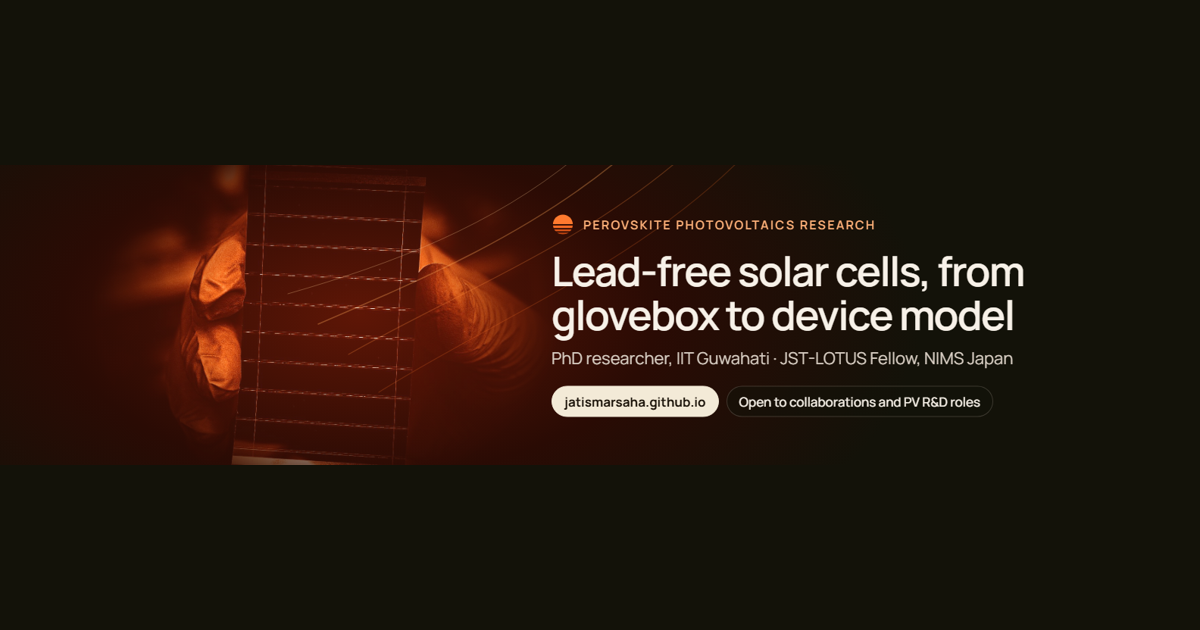
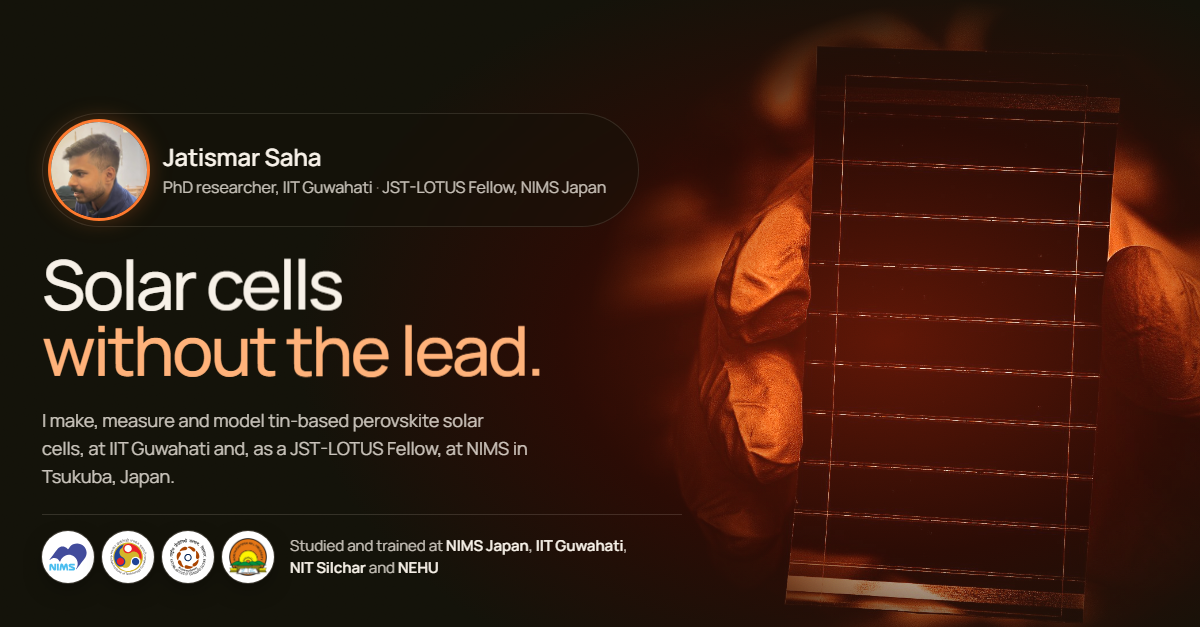
Replace link preview image with the current hero design

diff --git a/index.html b/index.html
@@ -12,12 +12,12 @@
 <meta property="og:title" content="Jatismar Saha | Lead-free perovskite solar cells">
 <meta property="og:description" content="PhD researcher, IIT Guwahati. JST-LOTUS Fellow at NIMS, Japan. Five publications, four as first author.">
 <meta property="og:url" content="https://jatismarsaha.github.io/">
-<meta property="og:image" content="https://jatismarsaha.github.io/banner.png">
+<meta property="og:image" content="https://jatismarsaha.github.io/banner.png?v=2">
 <meta property="og:image:alt" content="Jatismar Saha, lead-free perovskite solar cell research banner">
 <meta name="twitter:card" content="summary_large_image">
 <meta name="twitter:title" content="Jatismar Saha | Lead-free perovskite solar cells">
 <meta name="twitter:description" content="PhD researcher, IIT Guwahati. JST-LOTUS Fellow at NIMS, Japan.">
-<meta name="twitter:image" content="https://jatismarsaha.github.io/banner.png">
+<meta name="twitter:image" content="https://jatismarsaha.github.io/banner.png?v=2">
 <meta name="theme-color" content="#FBF7F1" media="(prefers-color-scheme: light)">
 <meta name="theme-color" content="#131209" media="(prefers-color-scheme: dark)">
 <script>try{var t=localStorage.getItem("theme");if(t==="light"||t==="dark")document.documentElement.setAttribute("data-theme",t)}catch(e){}</script>
